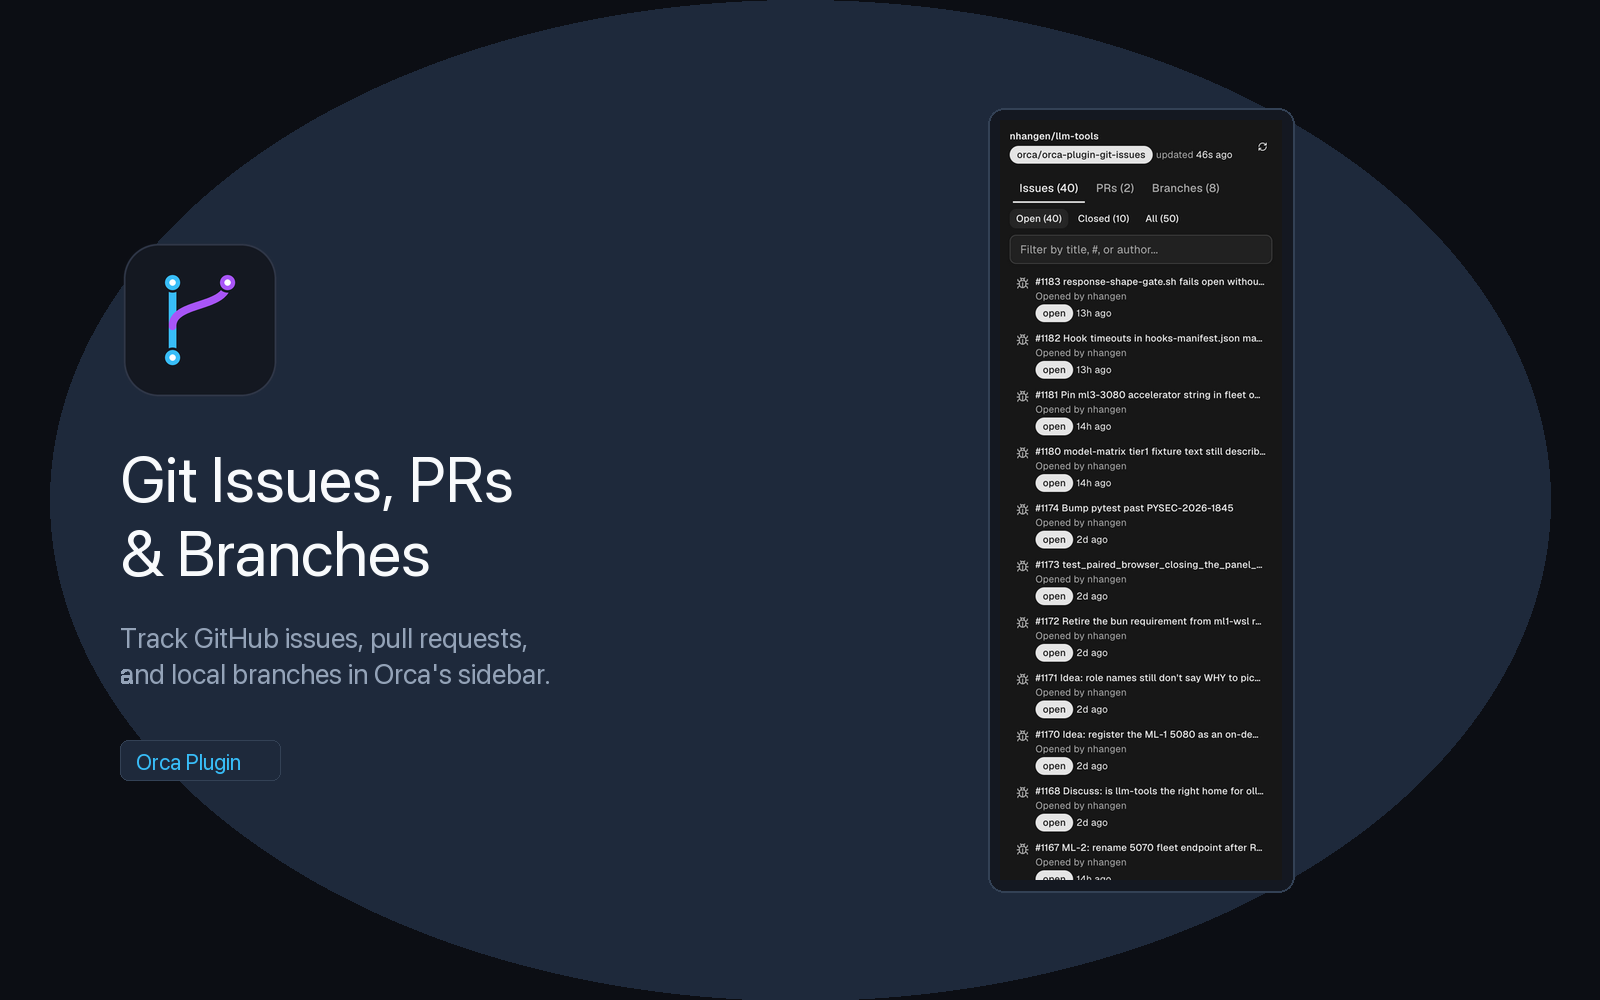
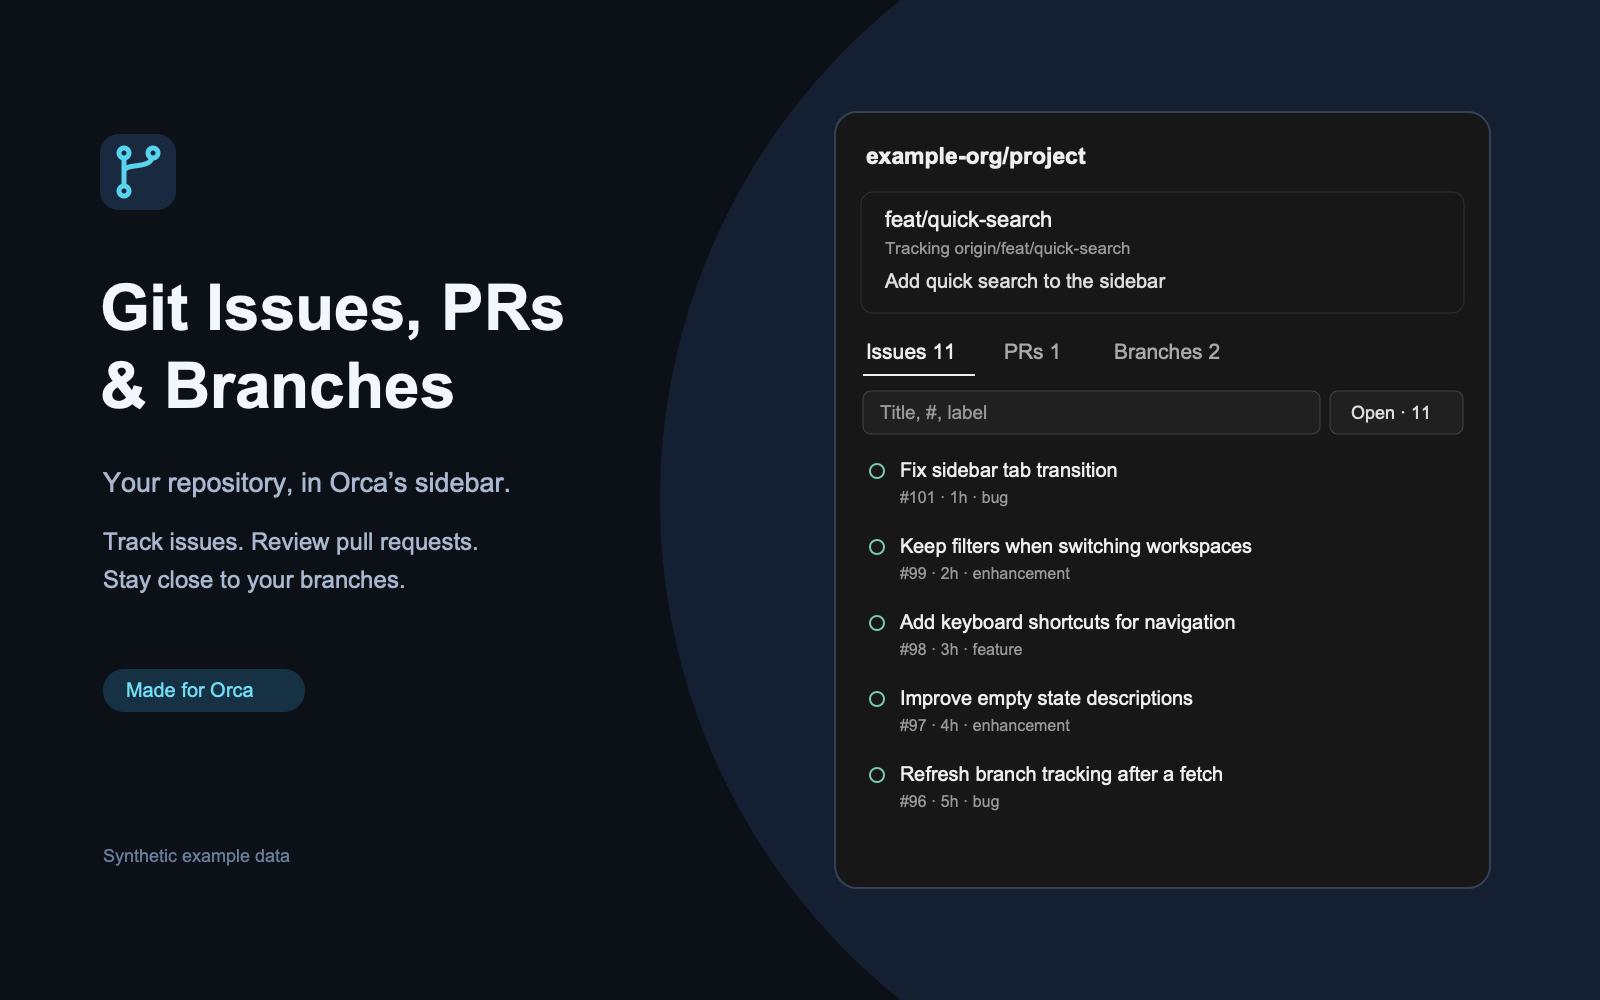
Prepare git-issues 0.1.8 with synthetic showcase images

diff --git a/plugins/git-issues/src/panel.check.ts b/plugins/git-issues/src/panel.check.ts
@@ -1,11 +1,10 @@
-// `orca plugin check` renders the panel once per scenario.
 import { defineCheck } from 'orca/testing'
 import type { RepoContext } from './protocol'
 
 const mockContext: RepoContext = {
-  repoSlug: 'nhangen/llm-tools',
-  currentBranch: 'main',
-  workspacePath: '/Users/nhangen/code/llm-tools',
+  repoSlug: 'example-org/project',
+  currentBranch: 'feat/quick-search',
+  workspacePath: '/workspace/project',
   fetchedAt: Date.now(),
   requestedAt: Date.now(),
   workerEpoch: 'check',
@@ -14,8 +13,8 @@ const mockContext: RepoContext = {
       number: 101,
       title: 'Fix sidebar tab transition',
       state: 'OPEN',
-      url: 'https://github.com/nhangen/llm-tools/issues/101',
-      author: 'nhangen',
+      url: 'https://github.com/example-org/project/issues/101',
+      author: 'contributor',
       updatedAt: new Date().toISOString(),
       updatedAtMs: Date.now() - 3600000,
       labels: [{ name: 'bug' }]
@@ -24,24 +23,45 @@ const mockContext: RepoContext = {
       number: 100,
       title: 'Support custom worktree icons',
       state: 'CLOSED',
-      url: 'https://github.com/nhangen/llm-tools/issues/100',
-      author: 'nhangen',
+      url: 'https://github.com/example-org/project/issues/100',
+      author: 'contributor',
       updatedAt: new Date().toISOString(),
       updatedAtMs: Date.now() - 86400000,
       labels: [{ name: 'feature' }]
-    }
+    },
+    ...([
+      [99, 'Keep filters when switching workspaces', 'enhancement'],
+      [98, 'Add keyboard shortcuts for navigation', 'feature'],
+      [97, 'Improve empty state descriptions', 'enhancement'],
+      [96, 'Refresh branch tracking after a fetch', 'bug'],
+      [95, 'Show review status beside pull requests', 'feature'],
+      [94, 'Remember the selected repository', 'enhancement'],
+      [93, 'Support light and dark color themes', 'feature'],
+      [92, 'Keep issue titles readable in narrow panels', 'bug'],
+      [91, 'Link tracked branches to their remote', 'feature'],
+      [90, 'Improve loading feedback during refresh', 'enhancement']
+    ] as const).map(([number, title, label], index) => ({
+      number,
+      title,
+      state: 'OPEN' as const,
+      url: `https://github.com/example-org/project/issues/${number}`,
+      author: 'contributor',
+      updatedAt: new Date().toISOString(),
+      updatedAtMs: Date.now() - (index + 2) * 3600000,
+      labels: [{ name: label }]
+    }))
   ],
   pullRequests: [
     {
       number: 12,
-      title: 'Add pull request view to sidebar',
+      title: 'Add quick search to the sidebar',
       state: 'OPEN',
       isDraft: false,
-      url: 'https://github.com/nhangen/llm-tools/pull/12',
-      author: 'nhangen',
+      url: 'https://github.com/example-org/project/pull/12',
+      author: 'contributor',
       updatedAt: new Date().toISOString(),
       updatedAtMs: Date.now() - 1800000,
-      headRefName: 'feat/pr-tab',
+      headRefName: 'feat/quick-search',
       baseRefName: 'main',
       labels: [{ name: 'enhancement' }]
     }
@@ -49,15 +69,16 @@ const mockContext: RepoContext = {
   branches: [
     {
       name: 'main',
-      isHead: true,
+      isHead: false,
       upstream: 'origin/main',
-      lastCommitSubject: 'Merge pull request #1156',
+      lastCommitSubject: 'Refresh project documentation',
       lastCommitDate: '2026-11-08'
     },
     {
-      name: 'orca/orca-plugin-git-issues',
-      isHead: false,
-      lastCommitSubject: 'Add git-issues plugin',
+      name: 'feat/quick-search',
+      isHead: true,
+      upstream: 'origin/feat/quick-search',
+      lastCommitSubject: 'Add quick search',
       lastCommitDate: '2026-11-10'
     }
   ]
@@ -76,8 +97,8 @@ export default defineCheck({
         ...mockContext,
         ambiguous: true,
         candidates: [
-          { path: '/Users/nhangen/code/llm-tools', name: 'llm-tools' },
-          { path: '/Users/nhangen/code/claude-ceo', name: 'claude-ceo' }
+          { path: '/workspace/project', name: 'project' },
+          { path: '/workspace/docs', name: 'docs' }
         ]
       })
     }

diff --git a/plugins/git-issues/README.md b/plugins/git-issues/README.md
@@ -6,7 +6,9 @@ An Orca sidebar plugin that displays GitHub issues, pull requests, and git branc
 
 ## Overview
 
-![Screenshot](assets/screenshot.png)
+![Panel showing synthetic example repository data](assets/screenshot.png)
+
+Screenshots use synthetic repository data and show only the plugin panel.
 
 ## Features
 
